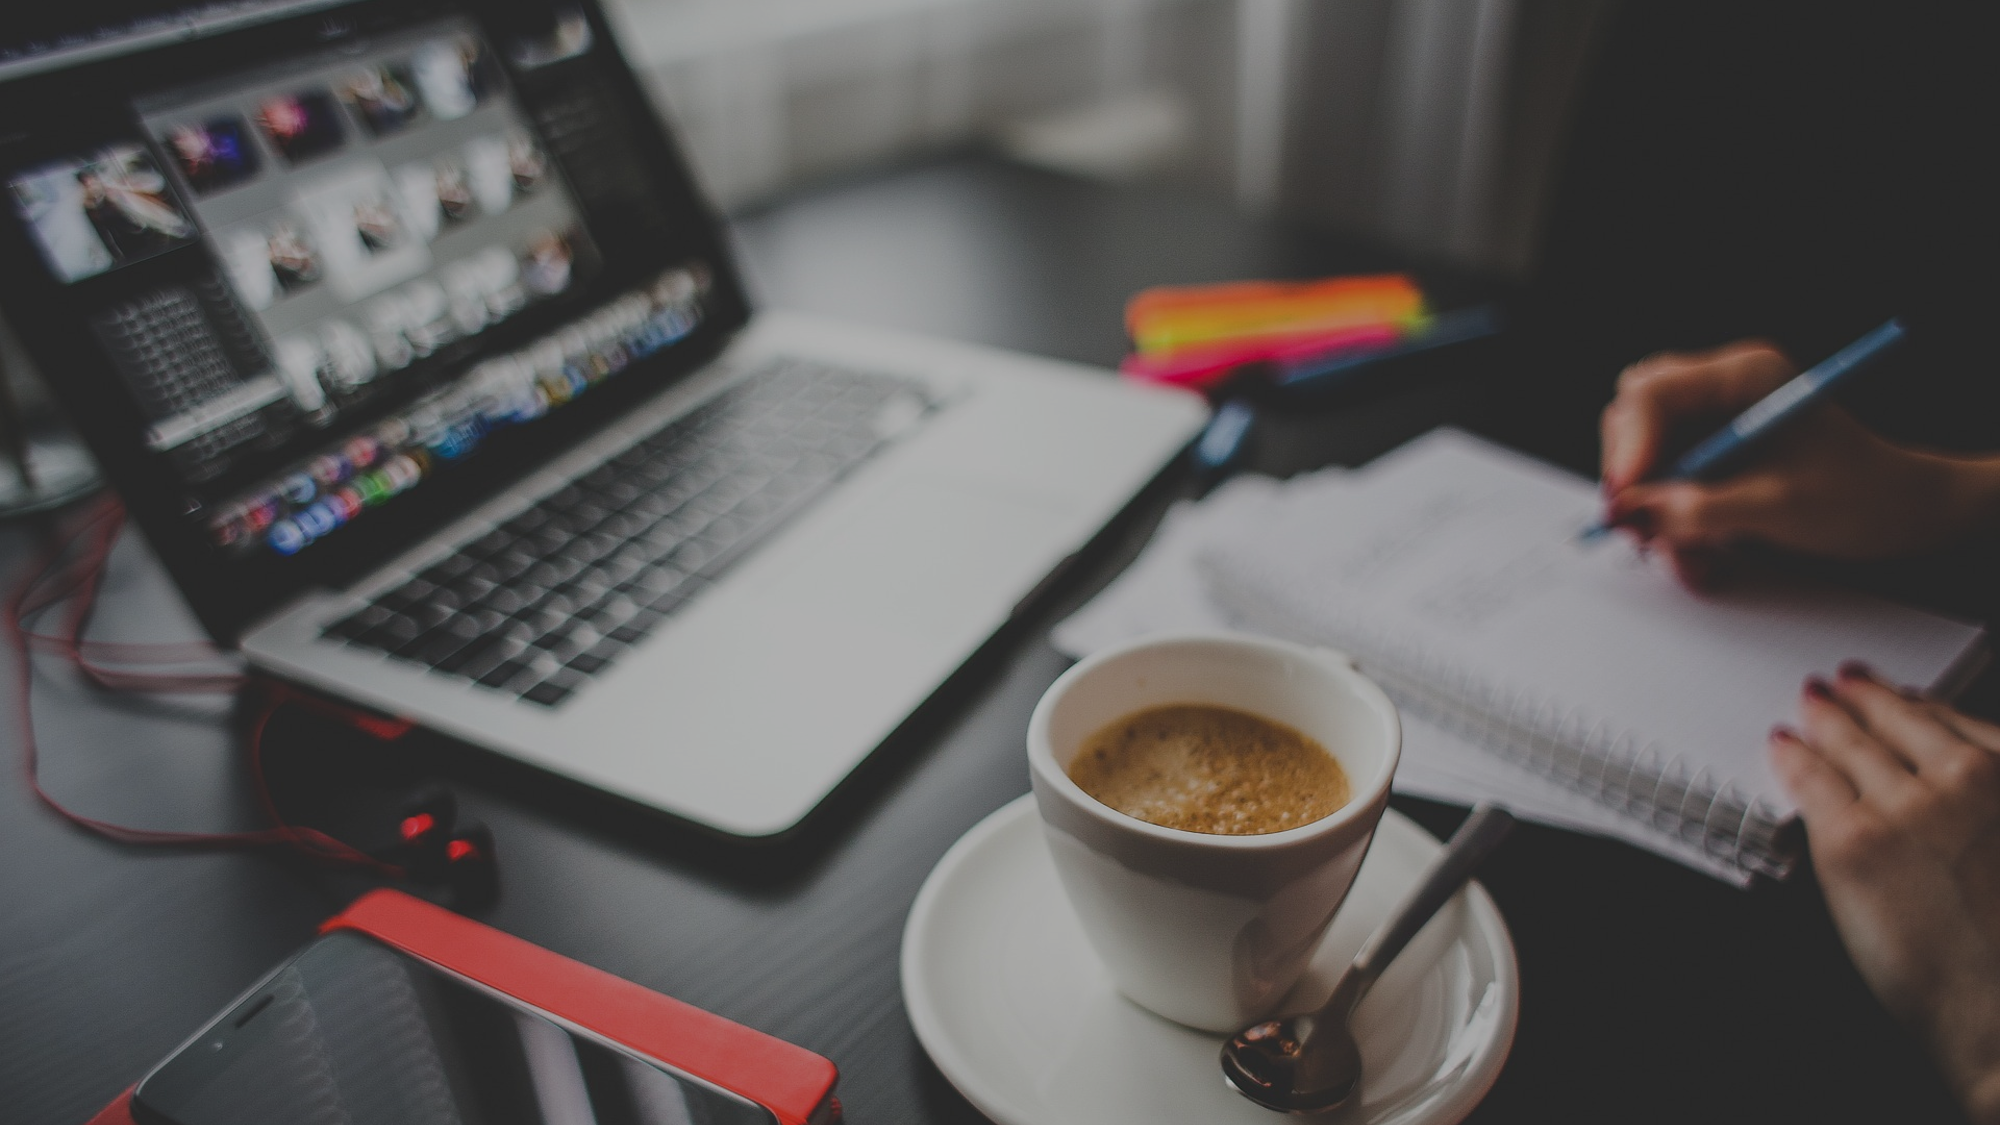
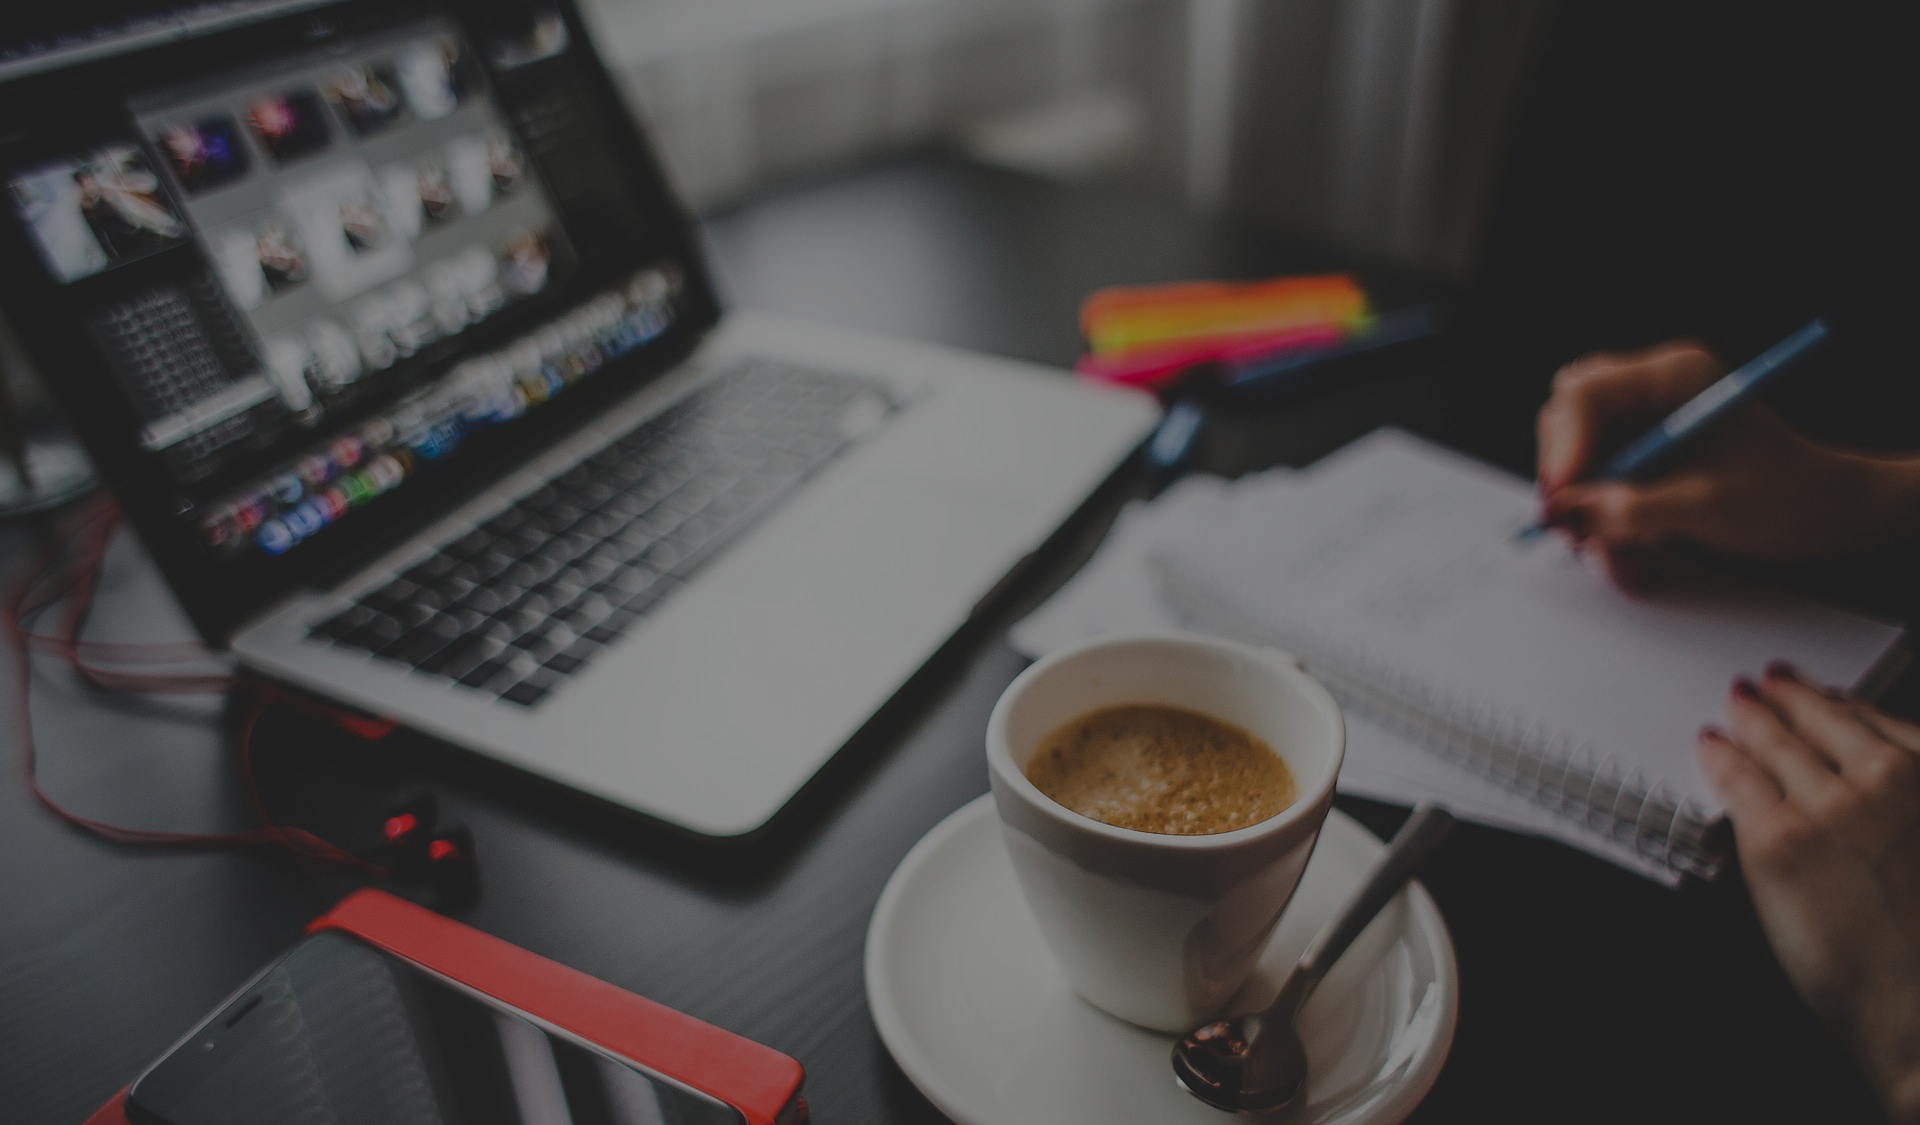
表单部分完成

diff --git a/static/js/create_room.js b/static/js/create_room.js
@@ -1,33 +1,97 @@
 function initFODs(){
 	var body = document.getElementsByTagName("body")[0];
-	var fods = document.getElementsByClassName("float-out-div");
-	var masks = document.getElementsByClassName("mask");
-	var fodButtons = document.getElementsByClassName("fod-button");
-	var createFODs = document.getElementsByClassName("create-fod");
-	for(var i = 0;i<masks.length;i++){
-		// fods[n].parentNode.removeChild(fods[n]);
-		// body.insertBefore(masks[n],body.firstChild);
-		// masks[n].parentNode.removeChild(masks[n]);
-		// body.insertBefore(masks[n],body.firstChild);
-		(function(){
-			var n = i;
-			// 点击遮挡区域使浮出层不可见
-			masks[n].onclick = function(e){
-				masks[n].style.display = "none";
-				fods[n].style.display = "none";
+	var createRoomBtn = document.getElementById("create-mindmap");
+	/*点击创建房间按钮*/
+	createRoomBtn.onclick = function(e){
+		var floatOutDiv = document.createElement("div");
+		floatOutDiv.className = "float-out-div";
+		floatOutDiv.id = "create-room-form";
+		floatOutDiv.innerHTML ="<div class=\"fod-title\">创建房间</div><div class=\"fod-container\"><form><p><label for=\"creator_id\">你的ID</label></p><input id=\"maskter-id\" type=\"text\" placeholder=\"ID(15个字以内)\" required maxlength=\"15\"><p><label for=\"room_title\">房间名</label></p><input id=\"room-title\" type=\"text\" placeholder=\"房间名(15个字以内)\" required maxlength=\"15\"><p><label for=\"topic_intro\">话题简介</label></p><textarea id=\"topic-intro\" placeholder=\"简介(200字以内)\" cols=\"30\" rows=\"10\" required maxlength=\"200\"></textarea></form><div class=\"fod-button-container\"><button class=\"fod-button fod-btn-confirm\" id=\"create-room-confirm\">确定</button><button class=\"fod-button fod-btn-cancel\">取消</button></div></div>"
+		body.insertBefore(floatOutDiv,body.childNodes[1]);
+		var mask = document.getElementById("fod-mask");
+		mask.style.display = "block";
+		/*在创建房间信息输入页面点击确认按钮*/
+		var createRoomConfirm = document.getElementById("create-room-confirm");
+		createRoomConfirm.onclick = function(e){
+			var id = document.getElementById("maskter-id").value.trim();
+			var roomTitle = document.getElementById("room-title").value.trim();
+			var topicIntro = document.getElementById("topic-intro").value.trim();
+			if(id === "" || roomTitle === "" || topicIntro === ""){
+				alert("请将信息填写完整!")
+			}else{
+				mask.style.display = "none";
+				body.removeChild(floatOutDiv);
 			}
-			fodButtons[n].onclick = function(e){
-				// 寻找float-out-div
-				masks[n].style.display = "none";
-				fods[n].style.display = "none";
-				// 本来该有若是不是按照结构书写情况的处理方式，偷个懒
+			// to do:向服务器发送创建房间的信息和请求
+			// to do:跳转到工作界面
+		}
+		/*在创建房间信息输入页面点击取消按钮*/
+		var createRoomCancel = document.getElementsByClassName("fod-btn-cancel")[0];
+		createRoomCancel.onclick = function(e){
+			mask.style.display = "none";
+			body.removeChild(floatOutDiv);
+		}
+	}; 
+	/*点击加入房间按钮*/
+	var joinWorkBtn = document.getElementById("join-work");
+	joinWorkBtn.onclick = function(e){
+		var floatOutDiv = document.createElement("div");
+		floatOutDiv.className = "float-out-div";
+		floatOutDiv.id = "join-work-form";
+		floatOutDiv.innerHTML ="<div class=\"fod-title\">加入工作</div><div class=\"fod-container\"><form><p><label for=\"worker_id\">你的ID</label></p><input id=\"worker-id\" type=\"text\" placeholder=\"ID(15个字以内)\" required maxlength=\"15\"><p><label for=\"room_number\">房间号</label></p><input id=\"room-number\" type=\"text\" placeholder=\"房间号\" required maxlength=\"15\"><p><label for=\"personal_info\">验证信息</label></p><textarea id=\"personal-info\" placeholder=\"请输入验证信息以供管理员审核(200字以内)\" cols=\"30\" rows=\"10\" required maxlength=\"200\"></textarea></form><div class=\"fod-button-container\"><button class=\"fod-button fod-btn-confirm\" id=\"join-work-confirm\">确定</button><button class=\"fod-button fod-btn-cancel\">取消</button></div></div>"
+		body.insertBefore(floatOutDiv,body.childNodes[1]);
+		var mask = document.getElementById("fod-mask");
+		mask.style.display = "block";
+		/*在加入工作信息输入页面点击确认按钮*/
+		var joinWorkConfirm = document.getElementById("join-work-confirm");
+		joinWorkConfirm.onclick = function(e){
+			var id = document.getElementById("worker-id").value.trim();
+			var roomNumber = document.getElementById("room-number").value.trim();
+			var personalInfo = document.getElementById("personal-info").value.trim();
+			if(id === "" || roomNumber === "" || personalInfo === ""){
+				alert("请将信息填写完整!")
+			}else{
+				mask.style.display = "none";
+				body.removeChild(floatOutDiv);
 			}
-			createFODs[n].onclick = function(e){
-				masks[n].style.display = "block";
-				fods[n].style.display = "block";
-			}
-		})();
+			// to do:向服务器发送创建房间的信息和请求
+			// to do:跳转到工作界面
+		}
+		/*在创建房间信息输入页面点击取消按钮*/
+		var joinWorkCancel = document.getElementsByClassName("fod-btn-cancel")[0];
+		joinWorkCancel.onclick = function(e){
+			mask.style.display = "none";
+			body.removeChild(floatOutDiv);
+		}
 	}
+	// var fods = document.getElementsByClassName("float-out-div");
+	// var masks = document.getElementsByClassName("mask");
+	// var fodButtons = document.getElementsByClassName("fod-button");
+	// var createFODs = document.getElementsByClassName("create-fod");
+	// for(var i = 0;i<masks.length;i++){
+	// 	// fods[n].parentNode.removeChild(fods[n]);
+	// 	// body.insertBefore(masks[n],body.firstChild);
+	// 	// masks[n].parentNode.removeChild(masks[n]);
+	// 	// body.insertBefore(masks[n],body.firstChild);
+	// 	(function(){
+	// 		var n = i;
+	// 		// 点击遮挡区域使浮出层不可见
+	// 		masks[n].onclick = function(e){
+	// 			masks[n].style.display = "none";
+	// 			fods[n].style.display = "none";
+	// 		}
+	// 		fodButtons[n].onclick = function(e){
+	// 			// 寻找float-out-div
+	// 			masks[n].style.display = "none";
+	// 			fods[n].style.display = "none";
+	// 			// 本来该有若是不是按照结构书写情况的处理方式，偷个懒
+	// 		}
+	// 		createFODs[n].onclick = function(e){
+	// 			masks[n].style.display = "block";
+	// 			fods[n].style.display = "block";
+	// 		}
+	// 	})();
+	// }
 }
 
 window.onload = function(){

diff --git a/templates/index.html b/templates/index.html
@@ -4,23 +4,31 @@
         <title>Online Mindmap</title>
         <meta charset="UTF-8">
         <meta name="viewport" content="width=device-width, initial-scale=1">
-        <link href="{{static_url("css/index.css")}}" rel="stylesheet">
-        <link href="{{static_url("css/room_info.css")}}" rel="stylesheet">
-        <link rel="stylesheet" href="{{static_url("css/font-awesome.min.css")}}"/>
-        <script src="{{static_url("js/create_room.js")}}"></script>
+        <link href="../static/css/index.css" rel="stylesheet">
+        <link href="../static/css/float_out_window.css" rel="stylesheet">
+        <link rel="stylesheet" href="../static/css/font-awesome.min.css"/>
+        <script src="../static/js/create_room.js"></script>
         <!--<link rel="stylesheet" href="//cdn.bootcss.com/font-awesome/4.2.0/css/font-awesome.min.css"/>-->
     </head>
     <body>
-        <div class="mask"></div>
-        <div class="float-out-div">
-            <div class="fod-title">这是一个浮出层</div>
-            <div class="fod-container">这是一个浮出层
+        <div id="fod-mask"></div>
+        <!--<div class="float-out-div" id="create-room">
+            <div class="fod-title">创建房间</div>
+            <div class="fod-container">
+                <form>
+                    <p><label for="creator_id">创建者ID</label></p>
+                    <input type="text" placeholder="ID(15个字以内)" required maxlength="15">
+                    <p><label for="room_title">房间名</label></p>
+                    <input type="text" placeholder="房间名(15个字以内)" required maxlength="15">
+                    <p><label for="topic_intro">话题简介</label></p>
+                    <textarea id="topic-intro" placeholder="简介(200字以内)" cols="30" rows="10" required maxlength="200"></textarea>
+                </form>
                 <div class="fod-button-container">
-                    <button class="fod-button">确定</button>
-                    <button class="fod-button">取消</button>
+                    <button class="fod-button fod-btn-confirm" id="create-room-confirm">确定</button>
+                    <button class="fod-button fod-btn-cancel">取消</button>
                 </div>
             </div>
-        </div>
+        </div>-->
 
         <div id="background-img"></div>
         <nav>
@@ -35,7 +43,7 @@
             <span id="head-title">Brainchild</span>
             <p>一个基于思维导图的合作式创意孵化平台</p>
             <div id="btn-set">
-                <button id="create-mindmap" class="create-fod"><i class="fa fa-paper-plane"></i> 创建导图</button>
+                <button id="create-mindmap"><i class="fa fa-paper-plane"></i> 创建导图</button>
                 <button id="join-work"><i class="fa fa-sign-in"></i> 加入工作</button>
             </div>
         </div>

diff --git a/static/css/float_out_window.css b/static/css/float_out_window.css
@@ -1,0 +1,85 @@
+.float-out-div{
+    /*display: none;*/
+    width: 400px;
+    position: fixed;
+    top: 50%;
+    left: 50%;
+    transform: translate(-50%,-50%);
+    font-family: "Hiragino Sans GB", "Microsoft YaHei","WenQuanYi Micro Hei", sans-serif;
+    z-index: 100;
+    background-color: white;
+}
+.float-out-div *{
+    color: black;
+}
+.fod-title{
+    text-align: center;
+    color: rgb(68,114,196);
+    margin-top: 25px;
+    margin-bottom: 25px;
+    font-size: 25px;
+    padding: 8px;
+}
+.fod-container{
+    text-align: center;
+    width: 100%;
+}
+.fod-container form{
+    width: 65%;
+    display: inline-block;
+    text-align: left;
+}
+.fod-container form input,.fod-container form textarea{
+    box-sizing: border-box;
+    width: 100%;
+    margin-bottom: 20px;
+    margin-top: 8px;
+    padding: 8px;
+    border: 1px solid #e3e3e3;
+}
+.fod-container form label{
+    color: #333;
+}
+#topic-intro{
+    height: 200px;
+}
+.fod-button-container{
+    display: inline-block;
+    width: 65%;
+}
+.fod-button{
+    width: 100%;
+    padding-top: 10px;
+    padding-bottom: 10px;
+    border-radius: 5px;
+    font-size: 13px;
+    margin-right: 10px;
+    margin-bottom: 10px;
+    border: none;
+    color: white;
+    cursor: pointer;
+    transition: all 0.3s;
+}
+.fod-btn-confirm{
+    background-color: rgb(68,114,196);
+}
+.fod-btn-confirm:hover{
+    background-color: rgb(48,94,176);
+    box-shadow: 0px 3px 9px rgb(30,30,30);
+}
+.fod-btn-cancel{
+    background-color: rgb(235,86,92);
+}
+.fod-btn-cancel:hover{
+    background-color: rgb(215,66,72);
+    box-shadow: 0px 3px 9px rgb(30,30,30);
+}
+
+#fod-mask{
+    width: 100vw;
+    height: 100vh;
+    background-color: rgba(0,0,0,0.7);
+    position: fixed;
+    display: none;
+    z-index: 99;
+}

diff --git a/static/css/index.css b/static/css/index.css
@@ -12,7 +12,7 @@
     width: 100%;
     height: 100vh;
     overflow: hidden;
-    background-image: url("../img/working desk.png");
+    background-image: url("../img/working desk.jpg");
     background-color: rgb(41,59,77);
     z-index: -1;
 }
@@ -116,7 +116,7 @@ nav a{
 .hover-underline{
     position: relative;
 }
-.hover-underline:before{
+.hover-underline::before{
     content:" ";
     display: block;
     border-bottom: 3px solid white;
@@ -128,7 +128,7 @@ nav a{
     height: 100%;
     transition: width 0.2s,left 0.2s;
 }
-.hover-underline:hover:before{
+.hover-underline:hover::before{
     width: 100%;
     left: 0;
 }
